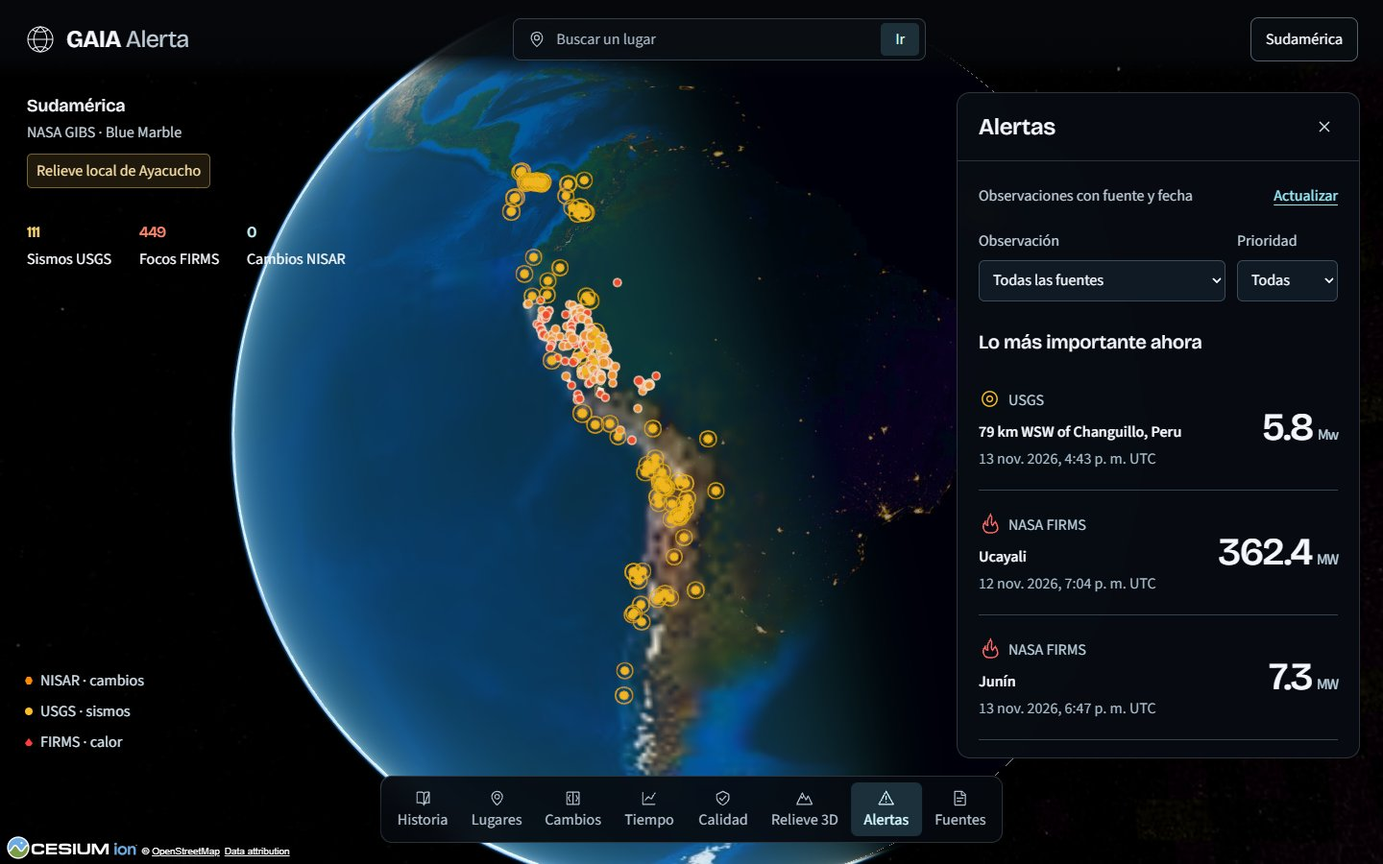
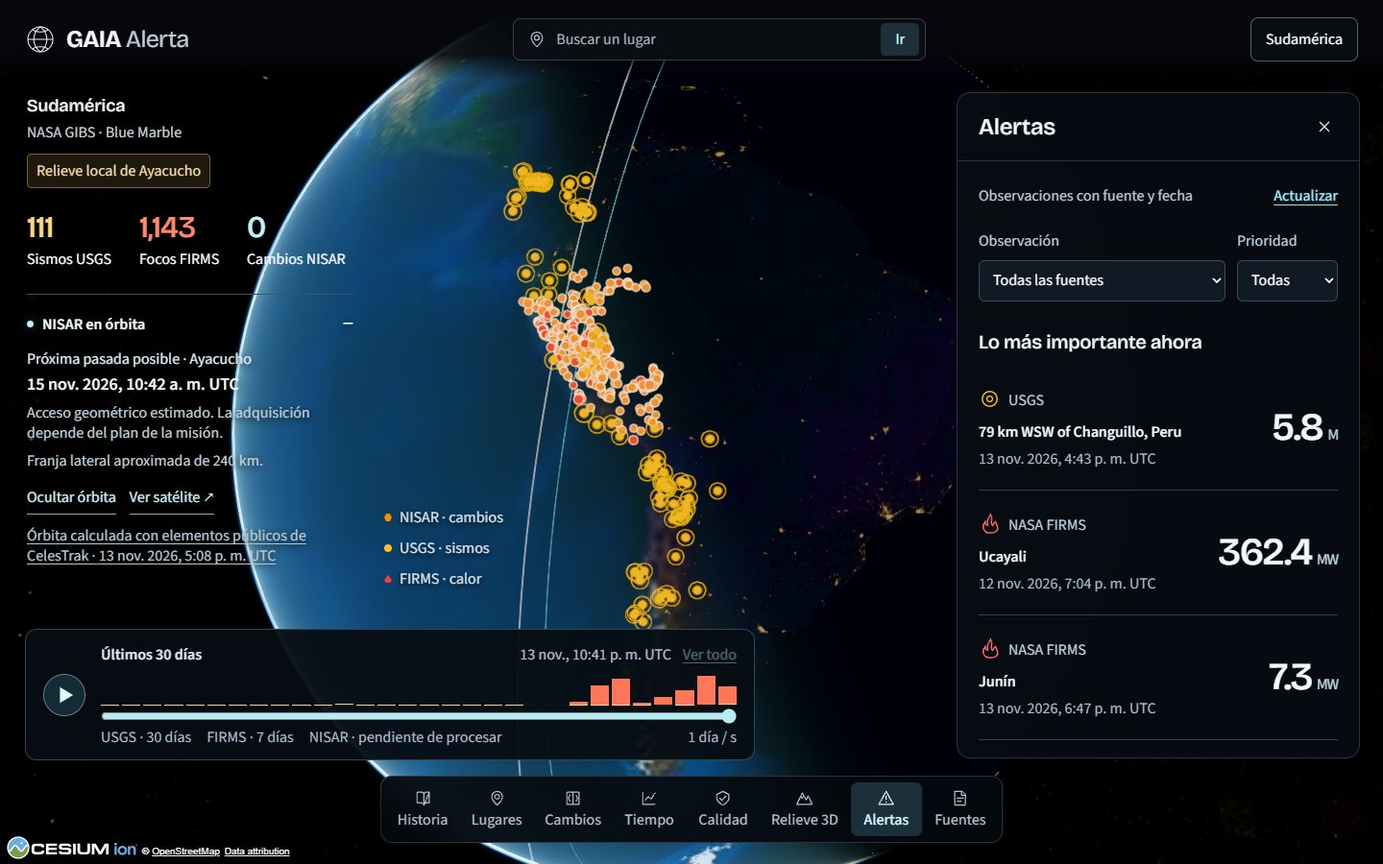
Verifica la experiencia y documenta el requisito pendiente de NISAR

diff --git a/apps/web/src/features/globe/Globe.tsx b/apps/web/src/features/globe/Globe.tsx
@@ -42,6 +42,9 @@ export function Globe({ aoi, tileUrl, beforeUrl, afterUrl, contextOverlay, split
   const lastInput = useRef(performance.now());
   const [hover, setHover] = useState<{ feature: AlertFeature; x: number; y: number }>();
   const cutoffRef = useRef(cutoff);
+  const arrival = useRef(Infinity);
+  const workspaceActive = useRef(active);
+  workspaceActive.current = active;
   const updateVisibility = useRef<() => void>(() => undefined);
   const orbit = useRef<{ target: Cesium.Cartesian3; heading: number; pitch: number; range: number } | undefined>(undefined);
   const [orbiting, setOrbiting] = useState(false);
@@ -184,7 +187,7 @@ export function Globe({ aoi, tileUrl, beforeUrl, afterUrl, contextOverlay, split
         v.entities.add({
           position: Cesium.Cartesian3.fromDegrees(lon, lat),
           point: { pixelSize: 4, color: Cesium.Color.WHITE, heightReference: Cesium.HeightReference.CLAMP_TO_GROUND },
-          label: { text, font: "14px sans-serif", fillColor: Cesium.Color.WHITE,
+          label: { text, font: "16px sans-serif", fillColor: Cesium.Color.WHITE,
             outlineColor: Cesium.Color.BLACK, outlineWidth: 3, style: Cesium.LabelStyle.FILL_AND_OUTLINE,
             pixelOffset: new Cesium.Cartesian2(8, -10), horizontalOrigin: Cesium.HorizontalOrigin.LEFT,
             heightReference: Cesium.HeightReference.CLAMP_TO_GROUND,
@@ -275,6 +278,7 @@ export function Globe({ aoi, tileUrl, beforeUrl, afterUrl, contextOverlay, split
     const v = viewer.current;
     if (!v || !active) return;
     if (!aoi) {
+      arrival.current = performance.now();
       lastInput.current = performance.now() - 16_400;
       v.camera.flyTo({ destination: Cesium.Cartesian3.fromDegrees(-66, -17, 11_500_000),
         duration: reduceMotion ? 0 : 3.6, easingFunction: Cesium.EasingFunction.QUINTIC_IN_OUT });
@@ -301,7 +305,9 @@ export function Globe({ aoi, tileUrl, beforeUrl, afterUrl, contextOverlay, split
       setOrbiting(false);
     };
     const canvas = v.scene.canvas;
+    const moved = () => { lastInput.current = performance.now(); };
     canvas.addEventListener("pointerdown", interacted);
+    canvas.addEventListener("pointermove", moved);
     canvas.addEventListener("wheel", interacted, { passive: true });
     window.addEventListener("keydown", interacted);
     const removeFrame = v.scene.preRender.addEventListener(() => {
@@ -319,6 +325,7 @@ export function Globe({ aoi, tileUrl, beforeUrl, afterUrl, contextOverlay, split
     return () => {
       removeFrame();
       canvas.removeEventListener("pointerdown", interacted);
+      canvas.removeEventListener("pointermove", moved);
       canvas.removeEventListener("wheel", interacted);
       window.removeEventListener("keydown", interacted);
     };
@@ -378,7 +385,6 @@ export function Globe({ aoi, tileUrl, beforeUrl, afterUrl, contextOverlay, split
     const started = performance.now();
     let frameTime = started;
     // Both ellipse axes must use exactly the same radius in a frame.
-    const removeClock = v.clock.onTick.addEventListener(() => { frameTime = performance.now(); });
     const phase = (offset = 0, period = 2600) => (((frameTime - started + offset) % period) + period) % period / period;
     const latest = [...alerts].filter(item => item.properties.kind === "quake")
       .sort((a, b) => b.properties.date.localeCompare(a.properties.date)).slice(0, 14);
@@ -455,16 +461,19 @@ export function Globe({ aoi, tileUrl, beforeUrl, afterUrl, contextOverlay, split
       });
       columns.push(cell);
     }
+    const rank = new Map(data.entities.values.map((entity, index) => [entity.id, index]));
     const visibility = () => {
       const close = v.camera.positionCartographic.height < 220_000;
       const until = cutoffRef.current ?? Infinity;
+      const progress = reduce ? 1 : Math.max(0, Math.min(1, (frameTime - arrival.current) / 1600));
+      const revealCount = Math.ceil(progress * data.entities.values.length);
       for (const entity of data.entities.values) {
         const feature = entity.properties?.alert?.getValue(v.clock.currentTime) as AlertFeature | undefined;
-        entity.show = !!feature && Date.parse(feature.properties.date) <= until;
+        entity.show = !!feature && Date.parse(feature.properties.date) <= until && rank.get(entity.id)! < revealCount;
       }
       individualFires.forEach(entity => { entity.show = entity.show && close; });
-      for (const { point, date, lon, lat } of firePoints) {
-        point.show = close && date <= until;
+      for (const [index, { point, date, lon, lat }] of firePoints.entries()) {
+        point.show = close && date <= until && index < Math.ceil(progress * firePoints.length);
         if (point.show) {
           const terrainHeight = v.scene.globe.getHeight(Cesium.Cartographic.fromDegrees(lon, lat)) ?? 0;
           point.position = Cesium.Cartesian3.fromDegrees(lon, lat, Math.max(0, terrainHeight) * v.scene.verticalExaggeration + 10);
@@ -473,7 +482,7 @@ export function Globe({ aoi, tileUrl, beforeUrl, afterUrl, contextOverlay, split
       for (const entity of columns) {
         const original = fireCells.find(cell => cell.properties.id === entity.id)!;
         const members = original.properties.members!.filter(member => Date.parse(member.date) <= until);
-        entity.show = !close && members.length > 0;
+        entity.show = !close && members.length > 0 && rank.get(entity.id)! < revealCount;
         const current = entity.properties!.alert.getValue(v.clock.currentTime) as AlertFeature;
         if (current.properties.metrics.count !== members.length && members.length) {
           const height = 2500 + Math.sqrt(members.length) * 16_000;
@@ -489,12 +498,21 @@ export function Globe({ aoi, tileUrl, beforeUrl, afterUrl, contextOverlay, split
       }
       if (polygons) for (const entity of polygons.entities.values) {
         const feature = entity.properties?.alert?.getValue(v.clock.currentTime) as AlertFeature | undefined;
-        entity.show = !!feature && Date.parse(feature.properties.date) <= until;
+        entity.show = !!feature && Date.parse(feature.properties.date) <= until && progress >= .8;
       }
     };
     const primary = alerts.filter(item => item.geometry.type !== "Point");
     let polygons: Cesium.GeoJsonDataSource | undefined;
     visibility();
+    let lastProgress = -1;
+    const removeClock = v.clock.onTick.addEventListener(() => {
+      frameTime = performance.now();
+      const progress = (frameTime - arrival.current) / 1600;
+      if (!reduce && workspaceActive.current && (progress < 1 || lastProgress < 1)) {
+        visibility();
+        lastProgress = progress;
+      }
+    });
     updateVisibility.current = visibility;
     const removeCamera = v.camera.changed.addEventListener(visibility);
     let lastFlicker = 0;
@@ -588,7 +606,7 @@ export function Globe({ aoi, tileUrl, beforeUrl, afterUrl, contextOverlay, split
       <small>{hover.feature.properties.source} · {hover.feature.properties.source_kind === "primary" ? "NISAR" : "complementario"}</small>
       <strong>{hover.feature.properties.title}</strong>
       <span>{hover.feature.properties.place}</span>
-      <b>{new Intl.NumberFormat("es-PE", { maximumFractionDigits: metric.decimals }).format(metric.value)} <small>{metric.unit}</small></b>
+      <b>{metric.value == null ? "Cifra sin publicar" : new Intl.NumberFormat("es-PE", { maximumFractionDigits: metric.decimals }).format(metric.value)} <small>{metric.unit}</small></b>
       <time dateTime={hover.feature.properties.date}>{formatDate(hover.feature.properties.date)}</time>
     </div>}
   </>;

diff --git a/apps/web/src/features/workspace/AlertFeed.tsx b/apps/web/src/features/workspace/AlertFeed.tsx
@@ -18,10 +18,11 @@ export function AlertSymbol({ kind }: { kind: AlertKind }) {
 
 export function observationMetric(feature: AlertFeature) {
   const m = feature.properties.metrics;
-  if (m.magnitude != null) return { value: m.magnitude, unit: "Mw", label: "Magnitud", decimals: 1 };
+  if (m.magnitude != null) return { value: m.magnitude, unit: m.magnitude_type ?? "M", label: "Magnitud", decimals: 1 };
   if (m.count != null) return { value: m.count, unit: "focos", label: "Detecciones en la celda", decimals: 0 };
   if (m.area_ha != null) return { value: m.area_ha, unit: "ha", label: "Área con cambio", decimals: 1 };
-  return { value: m.frp_mw ?? 0, unit: "MW", label: "Potencia radiativa", decimals: 1 };
+  if (m.frp_mw != null) return { value: m.frp_mw, unit: "MW", label: "Potencia radiativa", decimals: 1 };
+  return { value: null, unit: "", label: "Cifra sin publicar", decimals: 0 };
 }
 
 function AlertRow({ feature, onSelect }: { feature: AlertFeature; onSelect: (item: AlertFeature) => void }) {
@@ -49,7 +50,7 @@ export function AlertFeed({ alerts, onSelect }: { alerts: AlertFeature[]; onSele
     const kinds: AlertKind[] = ["surface_change", "deformation", "quake", "fire"];
     const featured = kinds.map(kind => {
       const candidates = alerts.filter(item => item.properties.kind === kind);
-      return candidates.sort((a, b) => observationMetric(b).value - observationMetric(a).value)[0];
+      return candidates.sort((a, b) => (observationMetric(b).value ?? -Infinity) - (observationMetric(a).value ?? -Infinity))[0];
     }).filter((item): item is AlertFeature => !!item).slice(0, 3);
     const recent = alerts.find(item => !featured.includes(item) &&
       !featured.some(chosen => chosen.properties.place === item.properties.place));
@@ -70,7 +71,7 @@ export function AlertFeed({ alerts, onSelect }: { alerts: AlertFeature[]; onSele
         const metric = observationMetric(feature);
         return <button key={a.id} type="button" className="featured-observation" data-kind={a.kind} onClick={() => onSelect(feature)}>
           <span className="featured-source"><span className="alert-symbol"><AlertSymbol kind={a.kind} /></span>{a.source}</span>
-          <span className="featured-metric"><CountUp value={metric.value} decimals={metric.decimals} /><small>{metric.unit}</small></span>
+          <span className="featured-metric">{metric.value == null ? "—" : <CountUp value={metric.value} decimals={metric.decimals} />}<small>{metric.unit}</small></span>
           <strong>{a.place}</strong><time dateTime={a.date}>{formatDate(a.date)}</time>
         </button>;
       })}

diff --git a/apps/web/src/features/workspace/workspace.css b/apps/web/src/features/workspace/workspace.css
@@ -86,7 +86,7 @@
 }
 .map-context small { font-size: var(--workspace-text); color: #c5d2dc; }
 .map-context button { justify-self: start; margin-top: 6px; padding: 5px 9px; border: 1px solid #766337; border-radius: 5px; background: rgb(36 29 15 / 86%); color: #f9dfa5; font-size: var(--workspace-text); }
-.orbit-card { width: min(340px, 100%); margin-top: 20px; padding-top: 14px; border-top: 1px solid #42545e; color: #d9eaf3; text-shadow: 0 2px 8px #000; font-size: 16px; }
+.orbit-card { width: min(340px, 100%); margin-top: 20px; padding-top: 14px; border-top: 1px solid #42545e; color: #d9eaf3; text-shadow: 0 2px 8px #000; font-size: var(--workspace-text); }
 .orbit-card > summary { display: flex; align-items: center; gap: 9px; cursor: pointer; color: #edf8fb; font-weight: 600; min-height: 32px; list-style: none; }
 .orbit-card > summary::after { content: "+"; margin-left: auto; font-size: 22px; font-weight: 400; }
 .orbit-card[open] > summary::after { content: "−"; }
@@ -94,7 +94,7 @@
 .orbit-dot { width: 7px; height: 7px; border-radius: 50%; background: #61727e; }
 .orbit-dot[data-active] { background: #b7f1f5; box-shadow: 0 0 10px #92ddeb80; }
 .orbit-card > div { padding-top: 8px; }
-.orbit-card strong { display: block; margin-top: 3px; color: #f1f9fb; font-size: 18px; font-weight: 550; line-height: 1.3; }
+.orbit-card strong { display: block; margin-top: 3px; color: #f1f9fb; font-size: clamp(18px, 1vw, 24px); font-weight: 550; line-height: 1.3; }
 .orbit-card p { margin: 7px 0; line-height: 1.35; color: #bdcfda; }
 .orbit-actions { display: flex; gap: 14px; margin-top: 10px; }
 .map-context .orbit-card button { border: 0; border-bottom: 1px solid #8cabb8; border-radius: 0; background: transparent; color: #c8f1f6; padding: 5px 0; margin: 0; }

diff --git a/apps/web/src/app/App.tsx b/apps/web/src/app/App.tsx
@@ -217,9 +217,10 @@ export function App() {
   const linkedAlert = useRef(new URLSearchParams(window.location.search).get("alert"));
   useEffect(() => {
     if (!linkedAlert.current || !alerts.length) return;
-    const match = alerts.find(feature => feature.properties.id === linkedAlert.current);
+    const match = alerts.find(feature => feature.properties.id === linkedAlert.current)
+      ?? fireCells.find(feature => feature.properties.id === linkedAlert.current);
     if (match) { linkedAlert.current = null; pickAlert(match); }
-  }, [alerts, pickAlert]);
+  }, [alerts, fireCells, pickAlert]);
   const chooseTab = (id: TabId) => { setTab(id); setPanelOpen(true); };
 
   return <div className="shell" data-workspace={ready || undefined}
@@ -267,7 +268,7 @@ export function App() {
         {activeContext && <small className="map-context-source">{activeContext.product} · {activeContext.date} · {preview ? "Vista visual NISAR" : "Complementario"}</small>}
         {mapStatus.terrain === "unavailable" && <button type="button" onClick={() => chooseTab("terrain")}>Relieve sin activar</button>}
         {mapStatus.terrain === "regional" && <button type="button" onClick={() => chooseTab("terrain")}>Relieve local de Ayacucho</button>}
-        {!current && !alertsLoading && <LiveSummary alerts={cutoff == null ? alerts : timelineAlerts} onKind={kind => {
+        {!current && !alertsLoading && !alertsError && <LiveSummary alerts={cutoff == null ? alerts : timelineAlerts} sources={sources} onKind={kind => {
           setAlertKind(kind); setSelected(undefined); chooseTab("alerts");
         }} />}
         {!selected && <OrbitCard data={orbitData} visible={orbitVisible} historical={cutoff != null}

diff --git a/apps/web/src/features/panels/Inspector.tsx b/apps/web/src/features/panels/Inspector.tsx
@@ -182,7 +182,15 @@ export function Inspector(p: Props) {
       {tab === "changes" && <>
         {!p.current ? <EmptyState title="Selecciona un lugar">Elige un territorio en Lugares para consultar su comparación NISAR.</EmptyState> : <>
           <p className="current-place">{p.current.name}</p>
-          {!p.layers.length && !p.contextLoading && <EmptyState title="Comparación pendiente de procesar">Se necesitan dos observaciones reales de la misma trayectoria y dirección para mostrar el cambio.</EmptyState>}
+          {!p.layers.length && !p.contextLoading && <>
+            <EmptyState title="Falta procesar NISAR">Se necesitan dos observaciones reales de la misma trayectoria y dirección para mostrar el cambio.
+              {p.health && !p.health.credentials.earthdata && " El acceso Earthdata aún no está configurado en el servidor."}
+            </EmptyState>
+            <details className="technical-details"><summary>Preparar la comparación real</summary>
+              <p>Configura EARTHDATA_TOKEN en el servidor. Para Ayacucho están autorizadas dos fechas, unos 3,9 GB en total. Después hay que ingerir los archivos y procesar HH y HV.</p>
+              <p>El revelado del radar se habilitará cuando estén publicadas las capas procesadas.</p>
+            </details>
+          </>}
           <CatalogSummary catalog={p.catalog} />
           <ContextLayers items={previews} active={p.activeContext} onSelect={p.onContext} title="Vista visual NISAR" />
           {!!p.layers.length && <>

diff --git a/apps/web/src/features/workspace/LiveSummary.tsx b/apps/web/src/features/workspace/LiveSummary.tsx
@@ -1,7 +1,7 @@
-import type { AlertFeature, AlertKind } from "../../lib/api";
+import type { AlertFeature, AlertKind, FeedStatus } from "../../lib/api";
 import { CountUp } from "./CountUp";
 
-export function LiveSummary({ alerts, onKind }: { alerts: AlertFeature[]; onKind: (kind: AlertKind) => void }) {
+export function LiveSummary({ alerts, sources, onKind }: { alerts: AlertFeature[]; sources: FeedStatus[]; onKind: (kind: AlertKind) => void }) {
   const items = [
     { kind: "quake" as const, label: "Sismos USGS", count: alerts.filter(item => item.properties.kind === "quake").length },
     { kind: "fire" as const, label: "Focos FIRMS", count: alerts.filter(item => item.properties.kind === "fire").length },
@@ -9,7 +9,8 @@ export function LiveSummary({ alerts, onKind }: { alerts: AlertFeature[]; onKind
   ];
   return <div className="live-totals" aria-label="Observaciones disponibles">
     {items.map(item => <button key={item.kind} type="button" data-kind={item.kind} onClick={() => onKind(item.kind)}>
-      <strong><CountUp value={item.count} /></strong><span>{item.label}</span>
+      <strong>{sources.find(source => source.source === (item.kind === "quake" ? "USGS" : "NASA FIRMS"))?.status === "unavailable"
+        && item.kind !== "surface_change" ? "—" : <CountUp value={item.count} />}</strong><span>{item.label}</span>
     </button>)}
   </div>;
 }

diff --git a/apps/web/src/features/workspace/AlertDetails.tsx b/apps/web/src/features/workspace/AlertDetails.tsx
@@ -24,7 +24,7 @@ export function AlertDetails({ feature, onBack, onResources }: { feature: AlertF
     <p className="alert-place">{p.place}</p>
     <p className="muted">{formatDate(p.date)}</p>
     <dl className="observation-metrics">
-      {p.metrics.magnitude !== undefined && <div><dt>Magnitud</dt><dd><CountUp value={p.metrics.magnitude} decimals={1} /> <small>Mw</small></dd></div>}
+      {p.metrics.magnitude !== undefined && <div><dt>Magnitud</dt><dd><CountUp value={p.metrics.magnitude} decimals={1} /> <small>{p.metrics.magnitude_type ?? "M"}</small></dd></div>}
       {p.metrics.depth_km !== undefined && <div><dt>Profundidad</dt><dd><CountUp value={p.metrics.depth_km} decimals={1} /> <small>km</small></dd></div>}
       {p.metrics.frp_mw !== undefined && <div><dt>Potencia radiativa</dt><dd><CountUp value={p.metrics.frp_mw} decimals={1} /> <small>MW</small></dd></div>}
       {p.metrics.count !== undefined && <div><dt>Detecciones en la celda</dt><dd><CountUp value={p.metrics.count} /> <small>focos</small></dd></div>}

diff --git a/apps/web/src/lib/api.ts b/apps/web/src/lib/api.ts
@@ -60,7 +60,7 @@ export type AlertFeature = {
     title: string; place: string; date: string; level: "alto" | "medio" | "bajo"; confidence: string;
     note: string; source_url: string; aoi_id?: string; granules?: string[]; provisional?: boolean;
     center?: [number, number]; members?: { id: string; date: string }[]; first_date?: string;
-    metrics: { magnitude?: number; depth_km?: number; frp_mw?: number; area_ha?: number | null; count?: number };
+    metrics: { magnitude?: number; magnitude_type?: string; depth_km?: number; frp_mw?: number; area_ha?: number | null; count?: number };
     exposure?: { people?: number | null; crop_ha?: number | null; forest_ha?: number | null;
       settlements?: number | null; sources?: string[]; note?: string } | null;
   };

diff --git a/services/api/app/live.py b/services/api/app/live.py
@@ -60,7 +60,7 @@ def _number(value, low: float, high: float) -> float:
 
 
 def _quakes() -> list[dict]:
-    start = (datetime.now(UTC) - timedelta(days=30)).date().isoformat()
+    start = (datetime.now(UTC) - timedelta(days=30)).isoformat(timespec="seconds")
     payload = json.loads(
         _download(
             USGS,
@@ -102,7 +102,9 @@ def _quakes() -> list[dict]:
                         "date": occurred,
                         "level": "alto" if magnitude >= 6 else "medio" if magnitude >= 5 else "bajo",
                         "confidence": "revisado" if p.get("status") == "reviewed" else "automático",
-                        "metrics": {"magnitude": magnitude, "depth_km": _number(depth, -10, 1000)},
+                        "metrics": {"magnitude": magnitude,
+                                    "magnitude_type": str(p.get("magType") or "M")[:12],
+                                    "depth_km": _number(depth, -10, 1000)},
                         "source_url": "https://earthquake.usgs.gov/earthquakes/eventpage/" + event_id,
                         "note": ("Evento observado. La magnitud no equivale al daño local "
                                  "ni predice nuevos sismos."),

diff --git a/docs/12_Verificacion_Experiencia_Interactiva.md b/docs/12_Verificacion_Experiencia_Interactiva.md
@@ -1,0 +1,77 @@
+# Verificación de la experiencia interactiva
+
+13 de noviembre de 2026. Implementación de `11_Experiencia_Interactiva_Codex.md`.
+
+## Estado por momento
+
+| Momento | Resultado | Evidencia |
+|---|---|---|
+| W8 · Paneles | Implementado. Prioridad, grupos por tipo y lugar, texto adaptable y cifras con unidad. | Commit `68e4245`, tres capturas en `art/verificacion/interactiva/W8/`. |
+| W2 · Marcadores | Implementado para observaciones disponibles. Ondas USGS, celdas hexagonales FIRMS de unos 10 km, columnas y puntos al acercarse. Los polígonos NISAR requieren datos publicados. | Commit `d8833a1`, pruebas de agregación espacial y tres capturas en `W2/`. |
+| W1 · Llegada | Implementado. Vuelo de 3,6 s, giro suave, aparición escalonada y contadores calculados con los datos recibidos. Un gesto detiene el giro; vuelve tras 20 s sin uso. | Commit `e3b8909` y cierre de verificación. Capturas en `W1/`. |
+| W3 · Cursor | Implementado. Resaltado y ficha con fecha, cifra, lugar y fuente. Consultas separadas por al menos 50 ms. | Commit `58134b9`. Cinco identificadores USGS respondieron en la comprobación del navegador. Capturas en `W3/`. |
+| W5 · Secuencia | Implementado. Histograma, selector por minuto, reproducción de un día por segundo y recuentos filtrados por la hora real. | Commit `dd998d7`. El navegador compara los recuentos con la respuesta real de la API. Capturas en `W5/`. |
+| W4 · Inmersión | Implementado. Vuelo oblicuo, giro alrededor del lugar y cancelación con Esc, arrastre o zoom. El móvil abre con el panel cerrado. | Commit `994be8d`. Sismo y foco térmico probados en las tres resoluciones. Capturas en `W4/`. |
+| W6 · Órbita | Implementado con la dependencia autorizada. Modelo existente, elementos públicos fechados, traza y franja lateral aproximada. | Commit `66d46c8`. `node tools/verify/orbit.mjs`, validaciones de época y capturas en `W6/`. |
+| W7 · Revelado | Pendiente. Hay cero capas NISAR procesadas y no está configurado Earthdata. La app indica el requisito en Cambios. | `/api/health` devuelve `layers: 0` y `earthdata: false`. Capturas del estado pendiente en `W7/`. |
+
+Las capturas de cada momento registran su versión durante la implementación. Las de cierre
+incluyen también las funciones que se añadieron después. Resoluciones de comprobación
+1440 × 900, 2560 × 1440 y 390 × 844.
+
+## Datos y límites comprobados
+
+- USGS proporciona sismos de magnitud 4 o superior en Sudamérica durante los últimos
+  30 días. La escala de magnitud se conserva cuando la fuente la incluye. Si una copia
+  anterior no la conserva, se muestra `M`, sin atribuirle una escala específica.
+- FIRMS público aporta siete días de VIIRS NOAA-20 de Perú. Se verificaron 1 143
+  detecciones en la consulta. Los recuentos pueden cambiar al actualizar la fuente.
+  El periodo anterior sin archivo FIRMS no demuestra ausencia de incendios.
+- La línea de tiempo cubre el periodo actual de 30 días. No se pudo reproducir septiembre
+  de 2026 porque ese archivo histórico no está descargado. No se sustituyó por detecciones
+  de otras fechas.
+- Los mosaicos oficiales NISAR de GIBS siguen siendo vistas visuales con procedencia.
+  No se presentan como cambios cuantificados ni se usan para fingir el revelado W7.
+- Continúa el límite autorizado de dos archivos NISAR, unos 3,9 GB. No se descargaron
+  los cuatro archivos inicialmente propuestos.
+- La órbita utiliza elementos públicos con una edad máxima de siete días y caché de
+  seis horas. La visualización se refresca cada hora y se oculta durante la secuencia histórica.
+  El acceso geométrico no confirma que NISAR vaya a adquirir una imagen.
+- El ensayo orbital usa el ciclo nominal de 12 días para contrastar geometría con las
+  trayectorias 54, 75 y 147 del catálogo. No asigna números de trayectoria al TLE/OMM.
+  El modelo se centra durante su carga y mantiene la altura calculada sin exageración vertical.
+- Falta Cesium ion. Continúan el respaldo NASA GIBS y el relieve regional de Ayacucho.
+  La nitidez global al acercarse y el relieve mundial siguen limitados por esa configuración.
+- El entorno de captura usa Chrome con renderizado por software. No se acredita una
+  tasa de 60 fps en la máquina física a partir de estas capturas.
+
+## Ejecución de comprobaciones
+
+```powershell
+npm --prefix apps/web run build
+.venv/Scripts/python.exe -m pytest -q
+.venv/Scripts/python.exe -m ruff check services
+node tools/verify/interactive.mjs W1
+node tools/verify/interactive.mjs W3
+node tools/verify/interactive.mjs W5
+node tools/verify/interactive.mjs W4
+node tools/verify/interactive.mjs W6
+node tools/verify/orbit.mjs
+```
+
+Resultado de las pruebas Python, 35 aprobadas. Compilación de producción correcta.
+Persisten avisos de tamaño de los paquetes de Cesium y advertencias de georreferenciación
+de los archivos sintéticos usados exclusivamente en pruebas. Se corrigió un fallo de las ondas
+al usar tiempos distintos para los dos radios de una elipse. La prueba ahora detecta también
+el panel interno de errores de Cesium, además de las excepciones JavaScript.
+
+`satellite.js` quedó en la rama 6.0.2 compatible con Vite. La versión 7.2 incorporaba módulos
+WASM que impedían compilar con la configuración actual. La auditoría npm también señaló
+tres avisos preexistentes en Vitest y sus dependencias de desarrollo. La corrección propuesta
+requiere un cambio mayor a Vitest 5.1.0 y queda fuera de esta fase de experiencia.
+
+## Revisión de diseño
+
+Se conservaron las excepciones específicas ya registradas en `.impeccable/config.json`
+para Instrument Serif en la variante editorial de portada y el aviso de dato provisional
+en `tokens.css`. No se añadieron excepciones de archivo completo ni de regla global.

diff --git a/CHANGELOG.md b/CHANGELOG.md
@@ -4,6 +4,8 @@ Una línea por cambio relevante: qué cambió y por qué importa.
 
 ## Sin publicar
 
+- Verificación interactiva: aparición escalonada de marcadores al llegar, enlaces compartidos de celdas FIRMS y estado de W7 con el requisito real de Earthdata y procesamiento.
+
 - W6: órbita NISAR propagada con satellite.js autorizado, elementos públicos de CelesTrak fechados, modelo 3D, traza y franja lateral aproximada; la pasada de Ayacucho indica acceso geométrico, sin prometer adquisición.
 
 - W4: el clic vuela al lugar con vista oblicua y recorrido orbital interrumpible con Esc o arrastre; en teléfono el mapa abre con el panel cerrado para conservar espacio.
